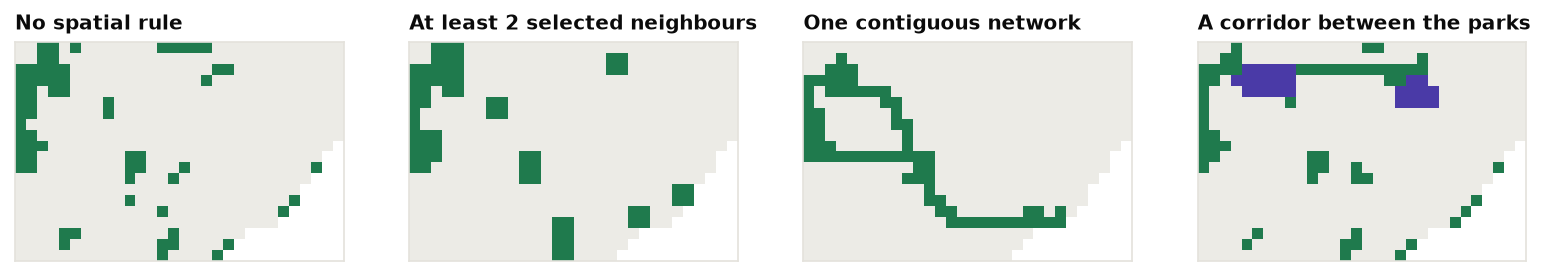
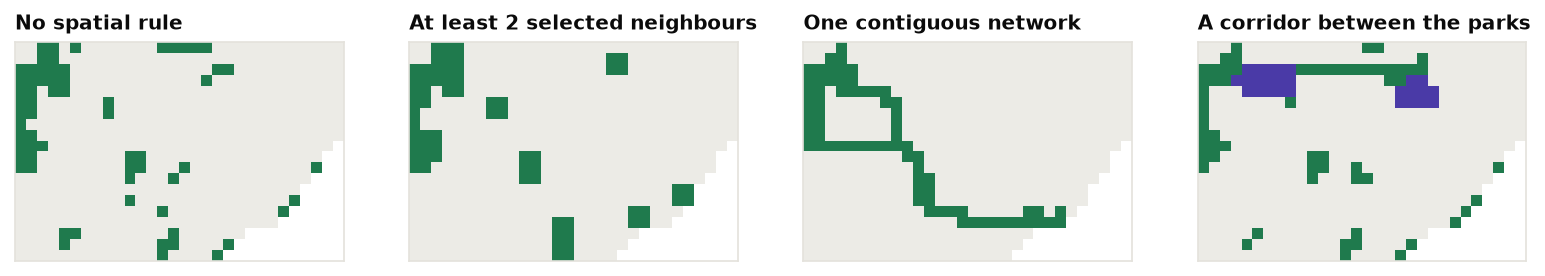
docs(prioritize): exact contiguity in Learn 12.5 and benchmarks
The 3 km figure is redrawn with the exact model (31.7 million USD after
120 s, proven within 17 %); the benchmarks page compares it with Gurobi
and with prioritizr's restricted formulation. IDEAS.md: phase 11 status,
the prioripy gaps and the plangea restoration plan.

diff --git a/IDEAS.md b/IDEAS.md
@@ -1836,8 +1836,8 @@ mesmas matrizes dão o mesmo ótimo no highspy e no gurobipy (inclusive a curva 
   12.929 resoluções no Gurobi).
   * Linux (WSL, gcc 13): 362 passam, 0 falham (o `pnorm` com o `exp` x87 inline dá os mesmos bits). Versão
     **1.23.0**.
-  * **ProxIRR** (Baisero et al.) não existe no prioritizr 8.0.6 nem há implementação de referência à mão: fica
-    para a fase 8 (clean-room pelo artigo, se pedido).
+  * **ProxIRR** (Baisero et al.) não existe no prioritizr 8.0.6. Há referência: o pacote `proxirr` 0.5 do
+    CRAN (MIT); ver "Lacunas em relação ao prioripy".
 
 ### Andamento da fase 7 (calibração e trade-offs)
 * **Fase 7 completa** (2026-10-04): `_milp_calibrate.py`, pelo tutorial "Calibrating trade-offs" do prioritizr:
@@ -1915,7 +1915,7 @@ mesmas matrizes dão o mesmo ótimo no highspy e no gurobipy (inclusive a curva 
   prioripy). Aliases com os nomes do prioritizr 9 e mais novos: `add_max_wtd_sum_objective`,
   `add_max_n_targets_met_objective`, `add_neighbor_constraints` (o modelo continua o do 8.0.6).
 
-### Andamento das pendências de pesquisa (fase 11, iniciada em 2026-10-07; em pausa, sem versão nova)
+### Andamento das pendências de pesquisa (fase 11, iniciada em 2026-10-07)
 * **Contiguidade exata** (feito, commitado, ainda sem release). **Bug do prioritizr (8.0.6 e 9.0)**: a
   formulação do `add_contiguity_constraints` (Önal e Briers 2006 na documentação) só cria uma aresta por par
   vizinho, do maior índice para o menor (`tril` + `sum y_ij <= x_j` por coluna): é uma **restrição**. Toda
@@ -1951,19 +1951,108 @@ mesmas matrizes dão o mesmo ótimo no highspy e no gurobipy (inclusive a curva 
   re-soluções (10⁴ unidades); `max_features`: aperto de coeficientes min(a_i, t_f) nas linhas de meta (sem
   efeito: quantidades por unidade << metas) e heurística gulosa por cobertura (8 metas contra 9 do motor atual e
   10 do Gurobi; 10⁴ unidades, 30 feições, orçamento 10 %: limites 17,7 nosso e 14,5 Gurobi em 120 s).
+* **Documentação e release 1.29.0** (2026-10-07): Learn 12.5 e `docs/benchmarks.md` com os números novos. Serra
+  Verde em blocos de 3 km (543 unidades, 8 feições, metas 20 %), contiguidade, 120 s: rede de 31.683 com gap
+  provado de 17 % (antes, no modelo restrito do prioritizr, 31,8 mil); o Gurobi no modelo exato em 600 s acha
+  30.300 (gap 3,8 %). Fica como pendência: o limite (cortes dentro do B&B) e a parte primal (busca local em
+  manchas) em problemas de centenas de unidades com várias feições.
 * Ambiente: `tests/test_zonal_extract.py` usa `np.long` (numpy 2); com numpy 1.26 a coleta falha (não
   relacionado). A suíte de priorização: 670 passam; `test_covering_keeps_the_time_limit_on_wide_models` falhou
   só sob disputa de CPU (passa sozinho).
 
+### Lacunas em relação ao prioripy (levantamento de 2026-10-04)
+Comparação da API pública inteira do prioripy 0.11.11 com o `ls.prioritize` 1.26.0. Já cobertos por outro
+caminho: condition layer e suavização (`zonation_features`), variável extra no max utility (mais uma feição com
+peso), `calibrate_feature_weight` (`calibrate` + `knee_point`), `eval_irreplaceability` (`Portfolio.frequency`),
+`calc_extinction_risk_features` (`add_min_extinction_risk_objective`), relatórios e mapas (`report`, `ls.plot`),
+`solve_iteratively` (`iterative_solve`), ameaças, sensibilidade e fronteira multi-ação (`actions_data`). Não
+portar: `eval_marginal_loss` e `eval_roi_vulnerability` (fórmulas do próprio prioripy, sem referência; a
+importância já tem replacement, Ferrier e rare richness). Conferido em 2026-10-04: não vêm do plangea, que não
+tem perda marginal, ROI, ameaça nem vulnerabilidade (entraram no commit `6838343` do prioripy). O ROI lembra o
+coeficiente benefício/custo do LP do plangea, e o que o plangea tem de fato entra na seção "Restauração a partir
+do plangea". Entram as três abaixo, sem ordem obrigatória.
+
+1. **Limites por unidade de planejamento** (o `add_continuous_bounds(upper_bounds, lower_bounds)` do
+   prioripy). O prioritizr 8.0.6 tem o mesmo em `add_manual_bounded_constraints(x, data)` e
+   `add_manual_locked_constraints(x, data)`, que ainda não temos: a referência passa a ser o prioritizr, com
+   compilação bitwise (fonte no git `b3023f9f`, `R/add_manual_*_constraints.R` e
+   `src/rcpp_apply_{bounded,locked}_constraints.cpp`).
+   * Semântica do prioritizr: `data` com `pu` (índice nas unidades TOTAIS, inclusive células sem custo; as que
+     não são unidades de planejamento são descartadas pelo `match`), `zone` opcional, `lower`/`upper`
+     (bounded) ou `status` (locked). O C++ só sobrescreve `lb`/`ub` da coluna `(zone - 1) * n_pu + (pu - 1)`,
+     na ordem em que as restrições foram adicionadas (a última vence). Validação: `upper >= lower`, finitos,
+     `pu` inteiro em `[0, n_total]`. Não valida `lower >= 0`, `upper <= 1` nem a coerência com o tipo de
+     decisão (com binárias, `lower = 0,5` vira 1 pela integralidade). Locked com todos os `status` 1 ou 0 vira
+     o mesmo objeto de `add_locked_in/out_constraints`.
+   * API: os nomes do prioritizr aceitando DataFrame (`pu`, `lower`, `upper` / `status`), mais a forma fácil
+     do prioripy pela regra de E/S: `lower=`/`upper=` (ou `status=`) como escalar, raster na grade das
+     unidades, array ou nome de coluna dos polígonos/H3. Com unidades raster, `pu` é o índice da célula na
+     grade inteira, como no prioritizr.
+   * A decidir na implementação: com decisões binárias e limites fracionários, erro claro (é a forma correta;
+     o prioritizr aceita em silêncio) ou arredondamento explícito; `lower < 0` ou `upper` acima do limite das
+     decisões: erro. Ver como os limites passam pelo pré-solve, pelos motores próprios (cobertura, wide, cut,
+     closure, anneal: colunas com `lb > 0` são fixadas como locked in parciais, `ub < 1` entra na escala da
+     coluna) e pelos portfólios de cortes (as no-good cuts supõem colunas 0/1).
+   * Paridade: `compile()` bitwise com o prioritizr nas três decisões (binária, proporção, semicontínua),
+     raster com NA e polígonos; ótimo igual ao do Gurobi em gap 0; o prioriactions não tem equivalente.
+
+2. **Landscape Identification e Landscape Comparison sobre qualquer superfície** (`eval_landscape_identification`
+   e `eval_landscape_comparison` do prioripy). Hoje só existem para o rank do Zonation
+   (`ZonationResult.area_statistics_separate_areas`, `area_statistics_rank_range`, `solution_comparison`, em
+   `_postprocess.py`, com paridade com o Zonation 5) e para a comparação MILP x Zonation (`compare_zonation`).
+   * Generalizar para superfícies do MILP e de fora: `eval_ferrier_importance`, `eval_rank_importance`,
+     `eval_replacement_importance`, `Portfolio.frequency`, um rank do Zonation ou qualquer raster de valores.
+   * Identificação: a fração do topo vira máscara (como o `rank_range_mask`), áreas 8-conexas numeradas em ordem
+     de linhas, áreas abaixo de `min_size` descartadas (o `separate_areas`), mais o `merge_distance` do prioripy
+     (dilatação antes de rotular, rótulos só nas células originais) e a opção de 4-conexidade. Por área:
+     tamanho, importância média, custo e a soma e a fração de cada feição (o `area_statistics`).
+   * Comparação: em cada fração do topo, Jaccard, fração de A coberta por B e as contagens de células; tabela
+     e gráfico registrados no `ls.plot`.
+   * Definir os empates no limiar: o prioripy usa `np.quantile` com `>=` (pode pegar mais células que a fração).
+     Usar a regra do Zonation (fração por posição no rank, empates pela ordem do rank) e documentar.
+   * Paridade: com o rank do Zonation como superfície, identificação e comparação dão os mesmos bits que o
+     pós-processamento do Zonation já portado; o resto contra uma implementação direta à mão (scipy).
+   * Nomes a decidir: `eval_landscape_identification(surface, top_fraction, ...)` e
+     `eval_landscape_comparison(a, b, fractions)` no padrão dos `eval_*`, com a superfície como dado (raster ou
+     resultado de `eval_*`) e o problema opcional (só para as feições e o custo).
+
+3. **ProxIRR** (Baisero, Schuster & Plumptre 2021, "Redefining and Mapping Global Irreplaceability",
+   *Conservation Biology*, doi:10.1111/cobi.13806). Referência: o pacote **`proxirr` 0.5** do CRAN
+   (2025-10-27, MIT, R puro, sem compilação; tarball em
+   `https://cran.r-project.org/src/contrib/proxirr_0.5.tar.gz`). Ainda não está no R lib: instalar para o
+   harness.
+   * Fórmulas (`R/dot_alphabeta.R`), por feição na unidade, com `local` = quantidade na unidade, `global` =
+     total disponível e `target` = meta absoluta: alpha = 0 se `target == 0`; 0 se `triage` e
+     `target > global`; se `target >= global`, 1 quando `local > 0`, senão 0; caso geral
+     `min(1, local / (global - target))`. Beta da unidade = `1 - prod(1 - alpha)`. Gamma = número de feições
+     com alpha == 1 + beta das demais (permite ordenar unidades onde o beta satura em 1). Erros: `local < 0`,
+     `global <= 0`, `target < 0`, `local > global`.
+   * No `ls.prioritize`: `eval_proxirr(p, triage=False)` sobre o problema compilado (`local` da matriz de
+     feições, `global` = os totais que as metas relativas usam, `target` = as metas absolutas do problema,
+     inclusive as sub-regionais e as loglineares), devolvendo alpha por feição (esparso, como a matriz) e beta e
+     gamma por unidade, em raster ou na tabela das unidades. Em C++ (OpenMP por unidade; o produto em ordem
+     fixa das feições, para bits estáveis). Também aceitar um projeto do Marxan (`ls.prioritize.marxan`), como
+     o `marxan_alphas/betas/gammas` do pacote.
+   * Bug do `proxirr` a não portar (só a forma correta, testada contra a referência corrigida no harness):
+     `marxan_alphas` busca os parâmetros da feição por `lalpha[[x]]` com `x` = id da espécie, ou seja por
+     POSIÇÃO na lista e não pelo id: com ids do `spec.dat` que não são 1..n em ordem, cada feição recebe o
+     total e a meta de outra. Também: `marxan_betas/gammas` chamam `.beta/.gamma` sem `na.rm`, e uma espécie
+     ausente do `spec.dat` (alpha NA) derruba a unidade com erro.
+   * Paridade: alpha, beta e gamma bitwise contra o `proxirr` (as funções vetorizadas sobre os mesmos
+     `local/global/target`; o produto do R é sequencial em double), nos exemplos do pacote, em casos com
+     `triage`, metas inalcançáveis e meta zero, e nos problemas do harness (raster com NA, polígonos).
+
 ### Próximos passos (retomar daqui)
-1. Fase 11, o que falta: documentação da contiguidade exata (Learn 12.5 `spatial.md`: os números 31,8 da figura
-   de 3 km podem mudar; `docs/benchmarks.md`: trocar o parágrafo "Contiguity constraints are the exception");
-   CHANGELOG e release (1.29.0). Depois: filogenéticos em 10⁶, multi-action com fronteira em gap 0 e o núcleo
+1. Fase 11, o que falta (a documentação da contiguidade exata saiu na 1.29.0): filogenéticos em 10⁶, multi-action com fronteira em gap 0 e o núcleo
    simétrico, fluxos dinâmicos (Kohli e Torr) e reparo paralelo no motor de cortes, heurística melhor para o
    `max_features` (busca local com trocas de metas).
 2. Depois da fase 11: desempenho das métricas de paisagem e reprojeção (ordem pedida pelo usuário).
-3. Sob pedido: ProxIRR (Baisero et al. 2021, clean-room pelo artigo), zonas do prioritizr,
-   `add_neighbor_penalties`.
+3. **Lacunas em relação ao prioripy** (seção acima): limites por unidade (`add_manual_bounded/locked_constraints`),
+   Landscape Identification/Comparison sobre qualquer superfície e ProxIRR.
+4. **Restauração a partir do plangea** (seção própria, logo abaixo): habitat e vegetação original, problema de
+   restauração com SAR exata, integridade de Beyer e propagação de erros. Os limites por unidade do item 3 são
+   pré-requisito do problema de restauração.
+5. Sob pedido: zonas do prioritizr, `add_neighbor_penalties`.
 
 ### Decisões
 * Tomadas em 2026-10-03: o repositório do prioripy fica como está, sem mudanças; a base e a referência são o
@@ -1971,6 +2060,155 @@ mesmas matrizes dão o mesmo ótimo no highspy e no gurobipy (inclusive a curva 
   licença do código do Marxan 4: se for compatível, portar com paridade contra o executável com semente fixa;
   senão, clean-room pelo artigo); o multi-action fica na fase 5; o HiGHS é embutido no `_core` (ver
   "Desenho"), com o `highspy` só para o benchmark da fase 0.
+
+---
+
+## Restauração a partir do plangea (`ls.prioritize`, mais duas ferramentas gerais)
+
+Pedido em 2026-10-04: trazer do plangea o problema de restauração, a integridade ecológica, a preparação de
+habitat e vegetação original, mais uma função geral de propagação de erros. Nada disso existe hoje: o
+`ls.prioritize` escolhe unidades para proteger e não modela quanto de cada pixel convertido restaurar, nem o
+habitat que volta para cada espécie conforme a classe natural restaurada. O `ls.restoration` atual é outra coisa
+(as ferramentas de restauração do GuidosToolbox: ECA, corredores, distância de custo).
+
+### Referência
+* **plangea** (`C:\Users\eduar\Documents\dev\plangea-pkg-dev`), pacote R do IIS (International Institute for
+  Sustainability), DESCRIPTION 0.1.0, **GPL >= 3** (compatível com o landschaft), arquivos de janeiro de 2024.
+  A pasta não é repositório git: não há versão fixa, então copiar o estado usado para o harness (hash dos
+  `R/*.R`) e não mexer na pasta. Não está no CRAN nem instalado; das dependências só o `raster` está no R lib
+  (faltam `Rsymphony`, `qs`, `fmsb`, `doSNOW`, `snow`, `doParallel`, `progress`, `cli`...). O harness chama as
+  funções internas direto com `devtools::load_all` e entradas pequenas, sem o JSON de configuração nem o
+  cache de pastas do `harmonize`.
+* Artigos: Strassburg et al. 2020, "Global priority areas for ecosystem restoration", *Nature* 586:724-729
+  (o modelo); Beyer et al. 2020, "Substantial losses in ecoregion intactness highlight urgency of globally
+  coordinated action", *Conservation Letters* 13:e12692 (a integridade); Brooks et al. 2019, "Measuring
+  terrestrial Area of Habitat (AOH) and its utility for the IUCN Red List", *TREE* 34:977-986 (área de
+  habitat).
+
+### Como o plangea funciona (`R/scen.R`)
+* Decisão contínua por pixel: a fração da área do pixel restaurada (`R`), conservada (`C`) ou convertida (`D`,
+  x negativo com limite inferior). Limite superior = fração restaurável (área antrópica) x `blim` (constantes
+  e rasters modificadores por classe; por sub-região, os limites econométricos).
+* Restrições: meta de área na paisagem (ou de custo de oportunidade) e por sub-região (estados, ecorregiões,
+  com tabela de metas e sentido por zona); combinações de zoneamentos; curva de trade-off em passos da meta.
+* Objetivo (`scen_objective_function`): max Σ (Σ benefícios ponderados / Σ custos) por pixel x área, LP no
+  Rsymphony (ou Gurobi). Benefícios: carbono (`cb`), biodiversidade (`bd`), integridade (`it`), colapso de
+  ecossistemas (`ec`); custo: custo de oportunidade (`oc`). Fatores de escala automáticos 1/10^trunc(log10 max).
+* Não-linearidade por **refresh steps**: a meta é resolvida em n pedaços; depois de cada um, os limites caem
+  pelo que já foi restaurado e `bd`/`ec`/`it` são recalculados com o habitat novo (linearização sucessiva,
+  uma heurística cujo resultado depende de n).
+* `bd` (`multi_calc_bd`, `multi_extinction_slope`): para cada espécie, risco = 1 - (A/Amax)^z (z = 0,25), com
+  A = habitat atual e Amax = habitat potencial; a derivada (diferença finita, δ = 1e-6 em área absoluta)
+  vezes o habitat que o pixel ganha (`prop_restore` das classes naturais adequadas à espécie), somada sobre as
+  espécies cujo range contém o pixel. `ec` (`multi_calc_ec`): o mesmo com as ecorregiões no lugar das espécies
+  (área natural atual e potencial de cada ecorregião).
+* Pós-processamento: tabelas agregadas por cenário e sub-região (com incerteza), redução total do risco de
+  extinção (`multi_exrisk_aggregate`), cenário uniforme (meta espalhada em proporção à área restaurável),
+  escolha de pesos (média/desvio dos desempenhos normalizados), gráficos radar, mapas de gradiente.
+
+### 1. Problema de restauração com SAR exata (no `ls.prioritize`)
+* Generalizar o `add_min_extinction_risk_objective` (hoje: risco de 1 - (mantido/total)^z, linear por partes
+  e convexo) para **habitat de base mais ganho**: A_s = base_s + Σ_i g_si x_i, Amax_s = potencial_s, com o
+  ganho g_si = área do pixel x Σ das frações `prop_restore` das classes naturais adequadas à espécie s no
+  pixel (dentro do range). O risco é convexo e decrescente em A: minimizar a soma ponderada é um LP com uma
+  envoltória linear por partes por espécie, sem binárias, e dá o ótimo exato num único solve (sem os passos
+  do plangea). `ec` = o mesmo com as ecorregiões como "espécies".
+* Decisões contínuas com limite por unidade (pré-requisito: o item 1 das "Lacunas em relação ao prioripy",
+  `add_manual_bounded_constraints` e a forma fácil por raster), e restrições de área por sub-região: um
+  `regions=` no `add_linear_constraints` (uma linha por região, limite e sentido por região, de tabela ou
+  dicionário), em vez de uma chamada por região.
+* Objetivo (**decidido em 2026-10-04**, com o usuário): max dos benefícios ponderados (carbono linear +
+  redução de risco SAR exata + colapso de ecossistemas + integridade linearizada) sujeito à meta de área e a
+  um orçamento de custo opcional; a forma inversa (min custo sujeito a uma redução de risco alvo) também; os
+  trade-offs pelas ferramentas da fase 7 (`pareto_front`, `calibrate`). Motivo: o b/c por pixel do plangea
+  mistura benefícios lineares e derivadas num quociente que não tem versão exata (razão de somas não é
+  linear). Reproduzir também o procedimento do plangea (b/c por pixel, refresh steps, curva em passos)
+  como `method="steps"`, para a paridade e para comparar com o exato (o exato tem de dar benefício >= ao dos
+  passos na mesma área: teste).
+* **`restoration_discount`** (decidido em 2026-10-04, com o usuário): a fração do valor de habitat que a área
+  restaurada NÃO entrega, em [0, 1], padrão 0. O ganho de habitat da espécie s vira
+  g_si x (1 - restoration_discount), aplicado uma vez. Escalar ou um valor por espécie (ou grupo); poderá entrar
+  na propagação de erros (item 4) como parâmetro incerto.
+  * Origem: o `use_restor_weight` do `multi_exrisk_aggregate`, comentário "Using different weight for
+    restored areas (Tom Brooks suggestion)", sem referência no código. Ele multiplica a área restaurada por
+    0,29, ou seja, mantém 29% do valor: equivale a `restoration_discount = 0,71`. Está desligado (padrão
+    `F`, nenhuma chamada passa `TRUE`). O artigo (Strassburg et al. 2020) assume o contrário: as áreas
+    restauradas dentro da AOH "were assumed to become habitat for that species in the long-term" (desconto
+    0); procurado "0.29", "29%" e "discount" no texto: nada.
+  * Bug do plangea (só a forma correta): o desconto fica dentro do laço das combinações de habitat e é
+    reaplicado a cada uma (0,29^k), em vez de uma vez.
+  * Documentar o sentido sem ambiguidade (desconto = o que se perde, não o que fica) e que não se confunde
+    com a taxa de desconto financeira (5%) do custo de oportunidade.
+* Escopo: restauração (`R`) primeiro; conservação (`C`) e conversão (`D`, x negativo) depois; o cenário
+  uniforme como linha de base (`uniform_scenario`), e a redução total do risco de extinção como `eval_*`.
+* Escala: no global a 5 km são milhões de pixels e milhares de espécies, e cada espécie é uma linha com os
+  pixels do seu range: testar os motores próprios (wide, cobertura) e o LP por sifting da fase 9.
+* Paridade: os coeficientes (`bd`, `ec`, o vetor b/c, as metas por sub-região, os limites) contra as funções
+  do plangea; o `method="steps"` contra o laço do `scen` (valores do objetivo e benefícios agregados, não o x:
+  o LP pode ter empates); a redução de risco agregada contra o `multi_exrisk_aggregate` corrigido.
+
+### 2. Integridade ecológica de Beyer et al. 2020 (ferramenta geral)
+* `multi_calc_it`: qualidade q = exp(-γ HFI) a partir da Pegada Humana (HFI), γ = -ln(0,2)/4; integridade do
+  pixel Q = Σ_j (q_i q_j)^z w_ij / Σ_j w_ij numa janela circular de raio n pixels, w = exp(β d) com d em km,
+  β = -0,2, z = 0,5. A derivada de Q em relação à restauração (HFI cai pelos pesos das classes antrópicas
+  convertidas, `hfi_weights`) entra como benefício `it` no problema de restauração.
+* Ferramenta geral do landschaft (fora do `ls.prioritize`, nome a decidir, por exemplo `ls.intactness(hfi,
+  radius, gamma, beta, z)`), em C++ com OpenMP, sobre os kernels focais que já temos; a derivada como opção.
+* Bugs do plangea (só a forma correta, testada contra a referência corrigida): o laço vai de `foc_index` a
+  `nrow - foc_index` e deixa de fora a última linha e a última coluna possíveis, cujos NA viram a média geral;
+  a borda deve usar a janela disponível (o `na.rm` já trata janelas parciais). A derivada perturba só o fator
+  do pixel central e não o mesmo pixel dentro da janela, e ignora o efeito do pixel restaurado na
+  integridade dos vizinhos. **Decidido em 2026-10-04**, com o usuário: a forma correta é a derivada completa
+  da integridade total, Σ_j ∂Q_j/∂x_i (o próprio pixel, inclusive dentro da sua janela, mais todos os
+  vizinhos cuja janela o contém).
+* Paridade: Q (o caminho `aggregate = TRUE`) contra o plangea com a borda corrigida, nos parâmetros padrão e
+  em outros; a derivada contra a referência corrigida e contra diferenças finitas da nossa Q.
+
+### 3. Habitat das espécies e vegetação original (ferramentas gerais de preparação)
+* **Área de habitat** (`harmonize_bd`; Brooks et al. 2019): habitat de cada espécie = range x soma das frações
+  das classes de uso adequadas (tabela espécie -> classes) x área do pixel; habitat potencial = o mesmo com
+  as frações da vegetação original. Espécies sem classe na tabela: todas as naturais (`include_absent_spp`) ou
+  fora. Saída por espécie (atual, potencial) e o mapa de ganho por pixel que o item 1 usa. Lugar a decidir:
+  `ls.sdm` (a seguir dos modelos de distribuição) ou `ls.bio`.
+* **Vegetação original das áreas convertidas** (`harmonize_oa`): a proporção de cada classe natural no uso
+  passado; onde o passado não tem vegetação natural ou a área antrópica atual passa de 95%, as proporções da
+  ecorregião; onde ainda falta, as médias das classes `failsafe_classes_to_fill`. Daí `prop_restore` (para que
+  classe cada pixel volta).
+* Paridade: contra as funções do plangea em rasters pequenos (com NA, espécies sem tabela, pixels que caem no
+  fallback da ecorregião e no failsafe).
+
+### 4. Propagação de erros (ferramenta geral)
+* Função geral do landschaft (nome a decidir, por exemplo `ls.propagate_error`), usável pelo `ls.prioritize`,
+  pelo `accounting`, pelo `ls.simulate` e pelo usuário. Hoje não há nada de incerteza no landschaft.
+* Totais Σ v_i a_i x_i com desvio σ_i por pixel (o `post_aggregate_table_row`): erros independentes
+  (quadrático, sqrt(Σ σ_i² a_i² x_i²)) ou totalmente correlacionados (linear, Σ |σ_i a_i x_i|); correlação
+  parcial como extensão nossa.
+* Produto de duas camadas incertas (`aux_calc_var_sd`): variância exata do produto de independentes
+  (Goodman 1960): x²σ_v² + v²σ_x² + σ_x²σ_v².
+* Parâmetros (método delta): derivadas centrais de uma função qualquer em relação aos parâmetros, combinadas em
+  quadratura ou linearmente (no plangea: γ, β, z da integridade com δ de 0,04, 0,02, 0,1; o z da SAR com
+  desvio 0,1); Monte Carlo com semente fixa como alternativa e para validar.
+* Intervalo: o quantil normal do nível pedido (o plangea fixa 1,96 por `1 + 0,96 x TRUE`).
+* Bugs do plangea (só a forma correta): `multi_exrisk_aggregate` tira a raiz da incerteza acumulada DENTRO do
+  laço das espécies (a cada espécie), em vez de somar os quadrados e tirar a raiz uma vez; `aux_calc_var_sd`
+  usa `0,1 x sd(x_vals)` como padrão do desvio da variável (deveria ser a própria variável) e, na forma
+  quadrática, soma o termo cruzado σ_x σ_v sem elevar ao quadrado. (O bug do `use_restor_weight` está no
+  item 1, no `restoration_discount`.)
+* Paridade: os totais quadrático e linear contra o plangea; o produto e o método delta contra as fórmulas à mão
+  e contra Monte Carlo (convergência); a SAR com incerteza de z contra o `multi_exrisk_aggregate` corrigido.
+
+### Não portar
+O JSON de configuração e o cache de pastas do `harmonize` (a nossa E/S faz isso); o deslocamento
+`b + |min b| + 1` dos benefícios (muda o ranking de forma arbitrária); o "power range collapse" (reescala
+numérica do objetivo); a constante fixa 0,29 do `use_restor_weight` (vira o parâmetro `restoration_discount` do
+item 1, sem valor embutido); os gráficos radar e os PNG (o `ls.plot` cobre).
+A escolha de pesos por média/desvio pode entrar como mais um critério ao lado do `topsis` e do `knee_point`, se
+for barato.
+
+### Ordem sugerida
+3 (dados) -> limites por unidade (lacunas do prioripy, item 1) -> 1 (problema de restauração, primeiro `R`) ->
+2 (integridade, que entra no 1 como benefício) -> 4 (propagação de erros, nas avaliações do 1 e no resto do
+landschaft). Ao fim de cada parte: testes, versão, commit, push.
 
 ---
 

diff --git a/docs/benchmarks.md b/docs/benchmarks.md
@@ -260,9 +260,18 @@ find hard on their own.
 | multi-action with boundaries | 10⁴ | | 7.5 s | 0.18 s | 1.22 |
 | multi-action with river dependencies (soft / hard) | 10⁵ | | 6 s / 8 s | 1 s / 5.5 s | 1.22 |
 
-Contiguity constraints are the exception: neither HiGHS nor Landschaft has
-cuts inside the branch and bound yet, and Gurobi is faster on them from a few
-thousand units.
+Contiguity constraints are the exception. prioritizr's contiguity model is a
+restriction (it misses some patches, see the
+[migration guide](api/prioritization-migration.md#what-to-expect-when-you-compare-the-results));
+Landschaft solves the exact model, starting from a patch of the restricted one
+and with directed cuts added before the branch and bound. On prioritizr's
+contiguity test problems (166 units, a raster and a table) it proves a gap of
+5 % in 1 to 1.5 s and finds patches as cheap as or cheaper than prioritizr's
+optimum. On larger
+problems the bound stays weak without cuts inside the branch and bound: on
+Serra Verde at 3 km (543 units, 8 features) Landschaft's network after 120 s is
+4.6 % above the best Gurobi finds in 600 s, with a proven gap of 17 % (Gurobi's,
+3.8 %).
 
 ### Species distributions
 

diff --git a/docs/learn/prioritization/spatial.md b/docs/learn/prioritization/spatial.md
@@ -130,10 +130,11 @@ a single winding network that reaches every feature, at a much higher cost. A co
 (purple): the parks are linked by a chain of cheap blocks, and the rest of the plan stays free.</figcaption>
 </figure>
 
-On these blocks the cost grows from 24.9 million USD with no rule to 27.8 with two neighbours and 31.8 with a
-single network. Contiguity is the most demanding rule: it is practical for small problems, or when the
-features lie close to each other. For a whole region, prefer penalties, and use corridors between a few
-terminals.
+On these blocks the cost grows from 24.9 million USD with no rule to 27.8 with two neighbours and 31.7 with a
+single network. Contiguity is the most demanding rule. Here two minutes give a network but do not prove it
+is the cheapest: its cost is within 17 % of the bound (Gurobi, in ten minutes, finds a network of 30.3 and
+proves it within 4 %). It is practical for small problems, or when the features lie close to each other. For
+a whole region, prefer penalties, and use corridors between a few terminals.
 
 ## Connectivity beyond adjacency
 
